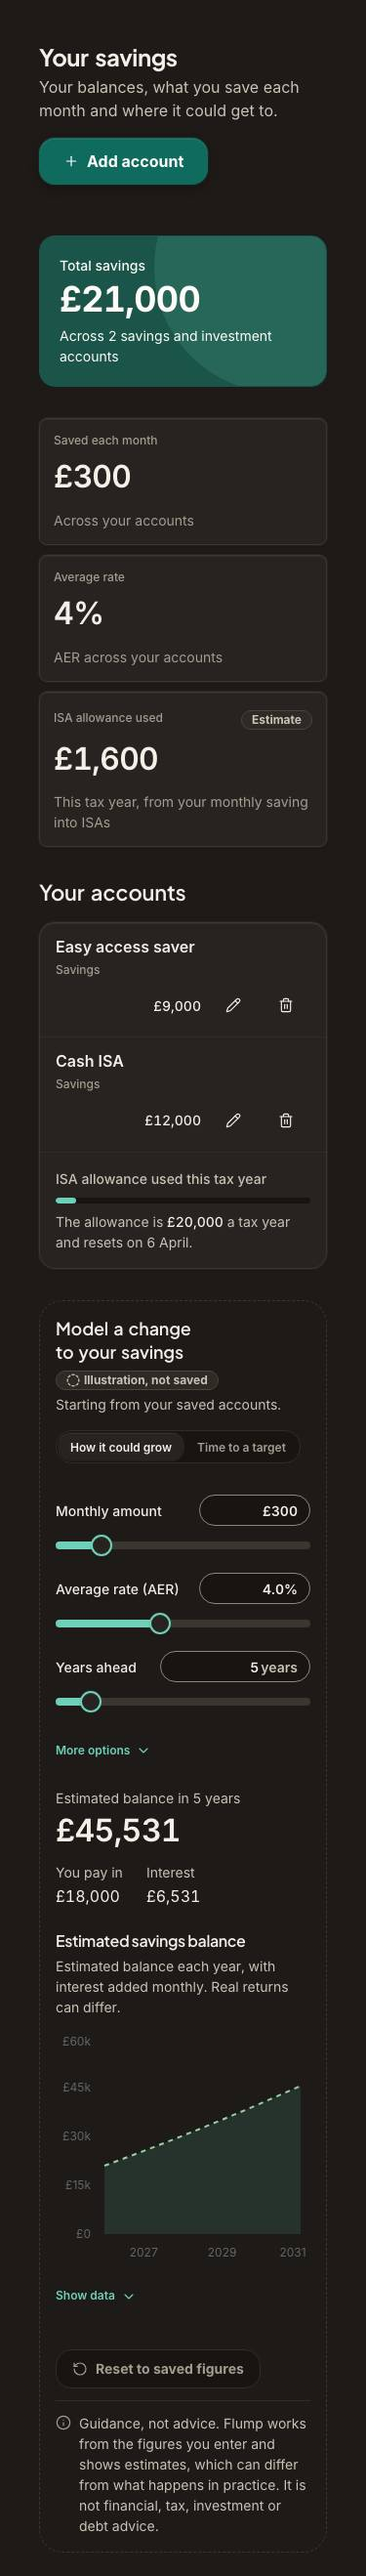
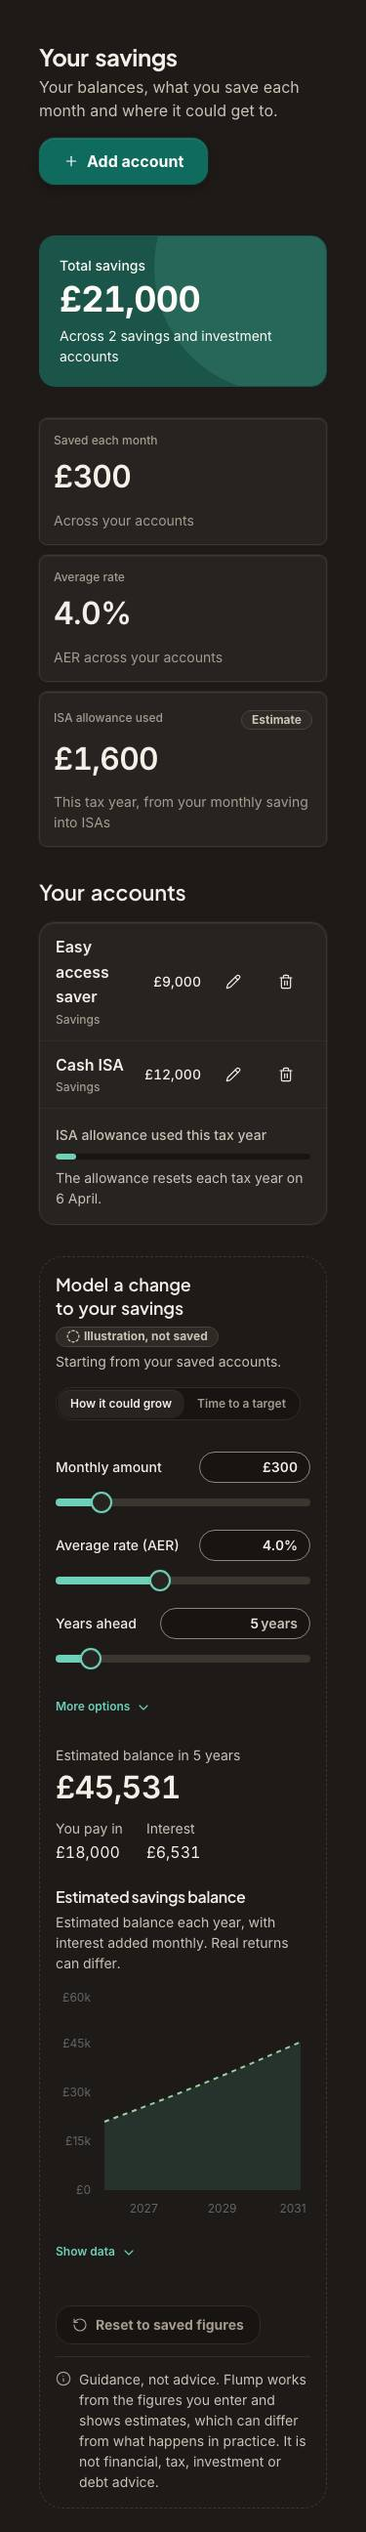
fix(web): E16 PR 7 savings rows keep the balance on the name line; screenshots README

diff --git a/apps/web/app/features/savings/components/SavingsAccountsList/SavingsAccountsList.styles.ts b/apps/web/app/features/savings/components/SavingsAccountsList/SavingsAccountsList.styles.ts
@@ -72,7 +72,7 @@ export const isaNote = cva({
 });
 
 export const accountMeta = cva({
-  base: { display: "flex", flexDirection: "column", gap: "2px", minWidth: 0, flex: "1 1 7rem" },
+  base: { display: "flex", flexDirection: "column", gap: "2px", minWidth: "5rem", flex: "1 1 0" },
 });
 
 export const accountLink = cva({

diff --git a/docs/design/e16-polish/pr7/README.md b/docs/design/e16-polish/pr7/README.md
@@ -1,0 +1,17 @@
+# E16 PR 7 screenshots: pension and savings
+
+Before: the audit's onboarded user (salary £58,000, 8% and 3%, pot £96,000, savings £21,000) on the live app, from the E16 audit sweep. After: each page's Storybook "Filled" story with similar data (no app header), Playwright (Chromium), JPEG, full page, at 375 and 1280, light and dark. Files: `<pension|savings>-<375|1280>-<light|dark>-<before|after>.jpg`. The CI visual baselines in `apps/e2e/visual/__screenshots__` show the seeded e2e user (empty pension).
+
+What changed:
+
+- **Pension:** hero on the saved pot total (ruling D2); KPI strip of 3 with the estimated income first, tagged "Estimate"; one "Your details" card with the pots and the four saved facts behind a quiet drawer; one ScenarioZone with two tools ("At retirement", "Take-home pay"), 3 sliders, the pot at retirement as the outcome with 2 supporting figures, one chart with the retirement age marked; the one notice in the zone footer; "Assumptions and UK rules" in a quiet drawer. Growth chips and the PLSA bar are gone (D6). The £100,000 line is one sentence, uses saved figures only and shows only for adjusted net income of £90,000 to £125,140.
+- **Savings:** hero "Total savings"; KPIs only when they hold a real value (no £0 or 0.0%); accounts list with one figure per row and the ISA allowance bar as its footer (an estimate, labelled); the forecast sliders, today's-money toggle, own goal and the deposit timeline are inside one ScenarioZone; no chart when the line would be flat; milestone tiles, result cards, top banner and the second zone are gone (D4).
+
+Re-score (visual / simplicity, design-critique skill):
+
+| Page    | Before    | After     |
+| ------- | --------- | --------- |
+| Pension | 6.0 / 4.0 | 9.0 / 9.0 |
+| Savings | 5.5 / 3.5 | 9.0 / 8.5 |
+
+The last critique round (single pot repeating the hero, the details toggle label, rate precision, the ISA note's second figure, account rows at 375) was applied after that score. Page height at 375 in Storybook: pension 2,568px (from 4,017px live), savings 2,592px, including Storybook's padding.
